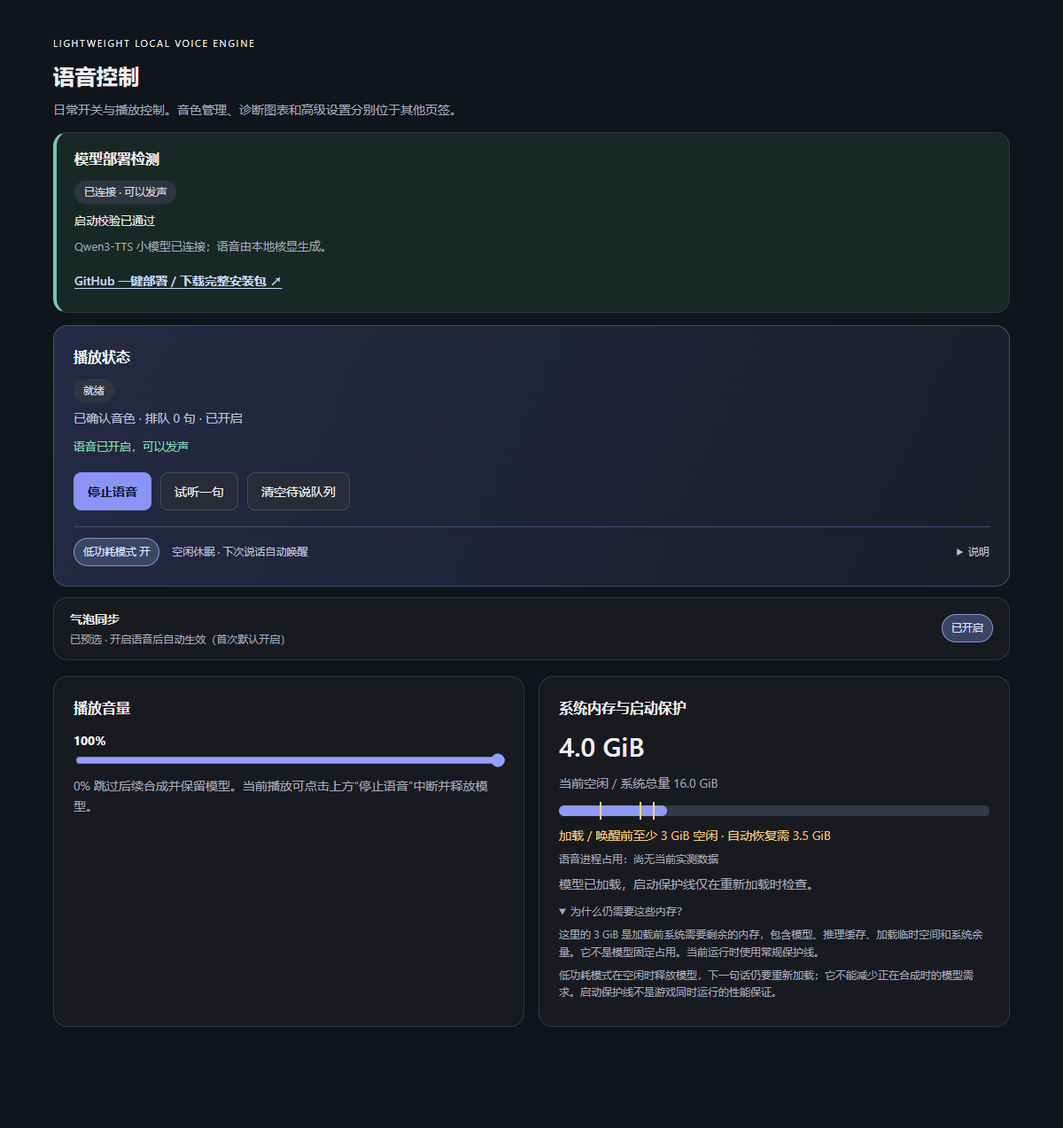
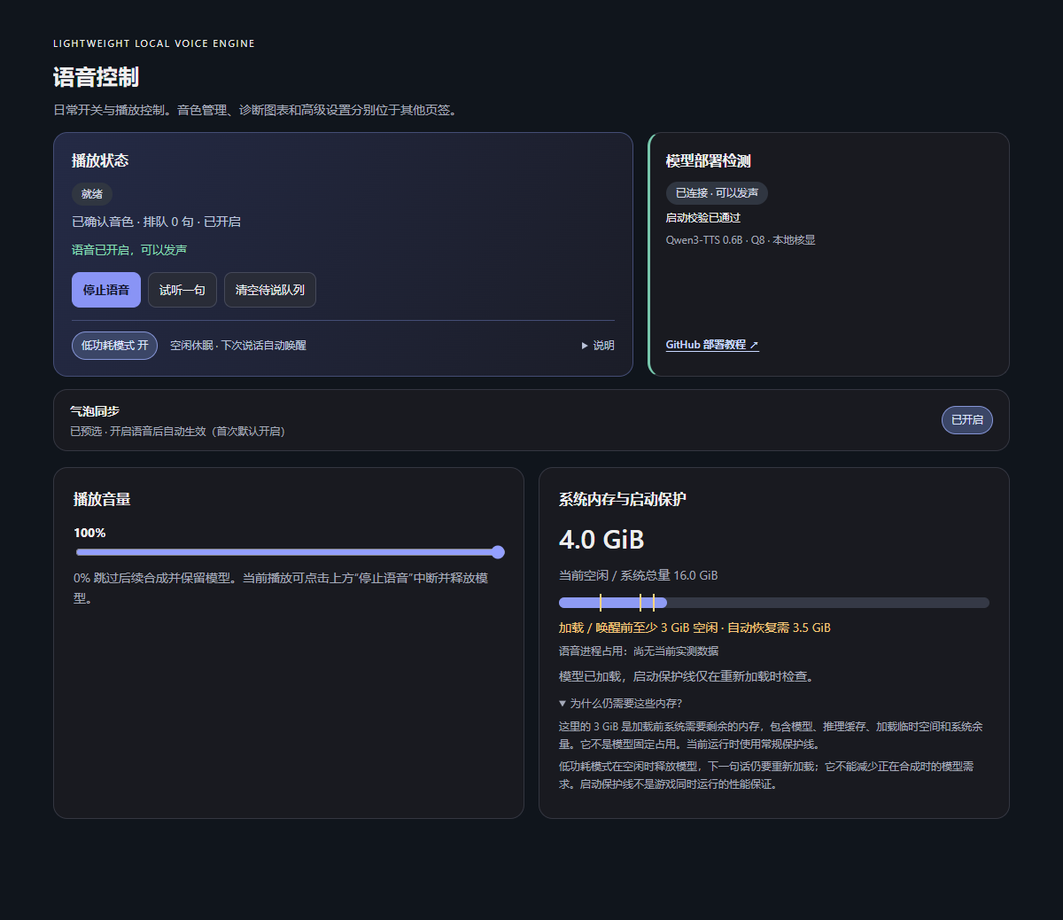
Place compact model deployment card beside playback controls

Changed region(s): [[0.0308, 0.0308, 0.925, 0.894], [0.8633, 0.4316, 0.9558, 0.4933], [0.8942, 0.5241, 0.9558, 0.5857]]

diff --git a/world/dist/console-0.3.11.js b/world/dist/console-0.3.11.js
@@ -1,0 +1,158 @@
+const names = {check_memory:'检查内存',validate_model:'正在校验',prepare_voice:'准备音色',prepare_audio:'启动播放器',check_environment:'检查环境',suspending:'正在休眠',sleeping:'低功耗休眠',ready:'就绪',load_model:'正在加载',synthesizing:'正在合成',playing:'正在播放',waiting_memory:'等待内存',disabled:'已关闭',stopped:'已停止',error:'异常',waiting_user:'待配置',idle:'未启动'};
+const node = (tag, text, cls) => { const e=document.createElement(tag); if(text!=null)e.textContent=text;if(cls)e.className=cls;return e; };
+const card = (title, cls='') => { const e=node('section',null,'card '+cls);if(title)e.append(node('h3',title));return e; };
+const fmt = n => Number.isFinite(n) ? Math.round(n).toLocaleString() : '—';
+const ms = n => `${fmt(n)} ms`;
+function shell(ctx,title,subtitle) {
+  const root=node('div',null,'lva');root.append(node('div','LIGHTWEIGHT LOCAL VOICE ENGINE','eyebrow'),node('h2',title),node('p',subtitle,'muted'));
+  const content=node('div'),notice=node('p',null,'notice');notice.setAttribute('role','status');root.append(content,notice);ctx.root.replaceChildren(root);
+  const state={busy:false};
+  async function act(method,args=[]) {
+    if(state.busy)return;state.busy=true;notice.textContent='正在处理…';
+    try {const result=await ctx.invoke(method,args);if(!ctx.signal.aborted)notice.textContent=['enable','recover'].includes(method)?'请求已接受，启动结果见播放状态。':'操作已完成';return result;}
+    catch(e){if(!ctx.signal.aborted)notice.textContent=e.message||String(e);throw e;}
+    finally{state.busy=false;}
+  }
+  function button(label,fn,cls='') {
+    const b=ctx.ui.button(label,{onClick:async()=>{if(state.busy)return;b.disabled=true;try{await fn();}catch{}finally{if(!ctx.signal.aborted && b.dataset.locked!=='true')b.disabled=false;}}});
+    b.classList.add(...cls.split(' ').filter(Boolean));return b;
+  }
+  function poll(render) {
+    let loading=false;
+    const refresh=async()=>{if(loading||ctx.signal.aborted)return;loading=true;try{const s=await ctx.invoke('state');if(!ctx.signal.aborted)render(s);}catch(e){if(!ctx.signal.aborted)notice.textContent='读取失败：'+e.message;}finally{loading=false;}};
+    void refresh();ctx.interval(refresh,1000);return refresh;
+  }
+  return {content,notice,state,act,button,poll};
+}
+function memory(s,c) {
+  const m=s.memory;
+  if(!c){
+    c=card('系统内存与启动保护');
+    const field=(tag,key,cls)=>{const e=node(tag,null,cls);e.dataset.memory=key;return e;};
+    c.append(field('div','free','stat'),field('p','total','muted'));
+    const track=node('div',null,'track');track.append(field('div','fill','fill'));
+    for(let i=0;i<3;i++)track.append(field('span','marker'+i,'marker'));c.append(track);
+    c.append(field('p','guard','warn'),field('p','measured','memory-measured'),field('p','verdict','muted'));
+    const why=node('details',null,'memory-help');why.append(node('summary','为什么仍需要这些内存？'),field('p','explain','muted'),field('p','peak','muted'),node('p','低功耗模式在空闲时释放模型，下一句话仍要重新加载；它不能减少正在合成时的模型需求。启动保护线不是游戏同时运行的性能保证。','muted'));c.append(why);
+  }
+  const field=key=>c.querySelector('[data-memory="'+key+'"]');
+  field('free').textContent=m.freeGiB.toFixed(1)+' GiB';field('total').textContent=`当前空闲 / 系统总量 ${m.totalGiB.toFixed(1)} GiB`;
+  field('fill').style.width=`${Math.min(100,m.freeGiB/m.totalGiB*100)}%`;
+  [m.minimumGiB,m.recoveryGiB,s.values.lowPowerMode&&s.values.lowMemoryMiB>0?s.values.lowMemoryMiB/1024:null].forEach((n,i)=>{const e=field('marker'+i);e.hidden=n==null;if(n!=null){e.style.left=n/m.totalGiB*100+'%';e.title=n+' GiB';}});
+  field('guard').textContent=`加载 / 唤醒前至少 ${m.minimumGiB} GiB 空闲 · 自动恢复需 ${m.recoveryGiB} GiB`;
+  const measured=s.workerPid?s.processMemory:null;
+  field('measured').textContent=measured?`语音进程专用 ${fmt(measured.privateMiB)} MiB · 驻留 ${fmt(measured.residentMiB)} MiB`:'语音进程占用：尚无当前实测数据';
+  field('verdict').textContent=s.workerPid&&s.accepting&&s.phase!=='sleeping'?'模型已加载，启动保护线仅在重新加载时检查。':m.freeGiB<m.minimumGiB?'可用内存不足，保留文字回复。':'达到启动保护线。';
+  field('explain').textContent=`这里的 ${m.minimumGiB} GiB 是加载前系统需要剩余的内存，包含模型、推理缓存、加载临时空间和系统余量。它不是模型固定占用。${m.layout==='text-rows'?'已启用文字词表按需加载，避免完整词表常驻核显。':m.layout==='compact'?'已识别固定音色精简模型，当前显示的是精简布局经实测校准后的加载保护线。':'当前运行时使用常规保护线。'}`;
+  field('peak').hidden=!measured;if(measured)field('peak').textContent=`本进程历史驻留峰值 ${fmt(measured.peakResidentMiB)} MiB。进程计数未单列核显共享内存，不能与系统空闲量直接相减。`;
+  return c;
+}
+function metric(title,value,hint){const c=card(title);c.append(node('div',value,'stat'),node('p',hint,'muted'));return c;}
+function chart(history) {
+  const c=card('最近 30 次语音 · 首次出声延迟');
+  if(!history.length){c.append(node('div','尚无数据。完成一次试听或聊天朗读后显示真实曲线。','empty'));return c;}
+  const ns='http://www.w3.org/2000/svg';const svg=document.createElementNS(ns,'svg');svg.setAttribute('viewBox','0 0 760 235');svg.setAttribute('role','img');svg.setAttribute('aria-label','首次音频设备回调及含排队延迟曲线，单位毫秒');
+  function item(tag,attrs,text){const e=document.createElementNS(ns,tag);for(const[k,v]of Object.entries(attrs))e.setAttribute(k,String(v));if(text)e.textContent=text;svg.append(e);return e;}
+  const max=Math.max(1000,...history.flatMap(x=>[x.firstDeviceCallbackMs||0,x.totalStartMs||0]))*1.15;
+  for(let i=0;i<4;i++){const y=15+i*60;item('line',{x1:55,y1:y,x2:742,y2:y,stroke:'var(--border)' });item('text',{x:2,y:y+5,fill:'var(--muted-foreground)' ,'font-size':12},String(Math.round(max*(1-i/3))));}
+  for(const [key,color] of [['firstDeviceCallbackMs','#9faeff'],['totalStartMs','#71d9b1']]){
+    const pts=history.map((h,i)=>[55+i*(687/Math.max(1,history.length-1)),195-Math.min(max,h[key]||0)/max*180]);
+    item('polyline',{points:pts.map(p=>p.join(',')).join(' '),fill:'none',stroke:color,'stroke-width':2.5});
+    pts.forEach(([x,y],i)=>{const p=item('circle',{cx:x,cy:y,r:3,fill:color});const t=document.createElementNS(ns,'title');t.textContent=`第 ${i+1} 次：${ms(history[i][key])}`;p.append(t);});
+  }
+  item('text',{x:55,y:224,fill:'var(--muted-foreground)' ,'font-size':12},'较早');item('text',{x:710,y:224,fill:'var(--muted-foreground)' ,'font-size':12},'最近');c.append(svg);
+  c.append(node('p','● 紫色：首次设备回调　● 绿色：含排队总延迟','legend'),node('p','毫秒，越低越快。计时从语音任务接收开始，不含聊天模型思考或系统扬声器的额外延迟；切换音色时清空旧曲线。','chart-caption'));return c;
+}
+const controls={mount(ctx){
+  const u=shell(ctx,'语音控制','日常开关与播放控制。音色管理、诊断图表和高级设置分别位于其他页签。');
+  const deploy=card('模型部署检测','deployment'),deployBadge=node('span','正在检测…','badge'),deployDetail=node('p'),deployHint=node('p','此功能需要安装 Qwen3-TTS 0.6B Base Q8 模型、音频解码模型及本地推理引擎才能发声。','muted'),deployLink=node('a','GitHub 一键部署 / 下载完整安装包 ↗','deploy-link');
+  deploy.setAttribute('role','status');deploy.setAttribute('aria-live','polite');deployLink.href='https://github.com/scarlet20252025-cloud/coopanion-soft-voice/releases/latest';deployLink.target='_blank';deployLink.rel='noopener noreferrer';deploy.append(deployBadge,deployDetail,deployHint,deployLink);
+  const hero=card('播放状态','hero'),state=node('span',null,'badge'),detail=node('p',null,'muted');hero.append(state,detail);
+  const feedback=node('div',null,'startup-feedback'),stageText=node('p'),progress=node('div',null,'startup-progress');feedback.setAttribute('role','status');feedback.setAttribute('aria-live','polite');progress.setAttribute('role','progressbar');progress.setAttribute('aria-label','语音启动进行中');feedback.hidden=true;feedback.append(stageText,progress);hero.append(feedback);
+  let pendingStartAt=0,requestedEnabled=null,stopPending=false,revision=0,latest=null,memoryCard=null;
+  const actionButtons={},actions=node('div',null,'actions');let refresh=()=>{};
+  const startButton=node('button','读取状态…','primary');startButton.type='button';startButton.disabled=true;
+  startButton.addEventListener('click',async()=>{
+    if(stopPending)return;
+    const want=!(requestedEnabled??latest?.speechEnabled??false),seq=++revision;requestedEnabled=want;
+    feedback.hidden=false;progress.hidden=false;feedback.classList.remove('bad','good');
+    if(want){pendingStartAt=Date.now();stageText.textContent='正在请求启动语音…';startButton.textContent='加载中 · 点击取消';}
+    else{stopPending=true;stageText.textContent='正在停止并释放语音模型…';startButton.textContent='正在停止…';startButton.disabled=true;}
+    try{await ctx.invoke(want?'enable':'disable');}
+    catch(e){stageText.textContent='操作失败：'+e.message;feedback.classList.add('bad');progress.hidden=true;u.notice.textContent=e.message;}
+    finally{if(seq===revision){requestedEnabled=null;pendingStartAt=0;stopPending=false;}await refresh();}
+    },{signal:ctx.signal});actions.append(startButton);
+  for(const [label,method]of [['试听一句','test'],['重试恢复','recover'],['清空待说队列','clearQueue']]){
+    const b=u.button(label,async()=>{await u.act(method);await refresh();});actionButtons[method]=b;if(method==="recover")b.hidden=true;if(method==="test")b.disabled=true;actions.append(b);
+  }hero.append(actions);
+  const volume=card('播放音量'),range=node('input'),output=node('strong');range.type='range';range.min=0;range.max=100;range.step=1;range.setAttribute('aria-label','播放音量');range.addEventListener('input',()=>output.textContent=range.value+'%',{signal:ctx.signal});range.addEventListener('change',()=>{void u.act('save',[{volume:Number(range.value)}]).catch(()=>{});},{signal:ctx.signal});
+  volume.append(output,range,node('p','0% 跳过后续合成并保留模型。当前播放可点击上方“停止语音”中断并释放模型。','muted'));
+  let lowPower=false;
+  const power=node('div',null,'power-inline'),powerHint=node('span',null,'muted');
+  const powerButton=u.button('低功耗模式',async()=>{await u.act('save',[{lowPowerMode:!lowPower}]);await refresh();},'power-switch');powerButton.setAttribute('role','switch');powerButton.setAttribute('aria-checked','false');powerButton.setAttribute('aria-label','低功耗模式');
+  const powerHelp=node('details',null,'power-help');powerHelp.append(node('summary','说明'),node('p','开启后按配置的空闲时间或内存阈值释放模型，不打断播放；下一句话自动唤醒，首句多一段加载等待。关闭后保持常驻。休眠时间、阈值和是否保留进程在“配置”页调整。','muted'));
+  power.append(powerButton,powerHint,powerHelp);hero.append(power);
+  let syncBubbles=true;
+  const syncOption=card(null,'feature-option'),syncCopy=node('div',null,'feature-copy'),syncHint=node('p',null,'muted');
+  syncOption.setAttribute('aria-label','独立功能：气泡同步');syncHint.id='lva-bubble-sync-hint';syncHint.setAttribute('role','status');
+  syncCopy.append(node('strong','气泡同步'),syncHint);
+  const syncButton=u.button('读取状态…',async()=>{await u.act('save',[{syncBubbles:!syncBubbles}]);await refresh();},'power-switch');syncButton.setAttribute('role','switch');syncButton.setAttribute('aria-label','气泡同步');syncButton.setAttribute('aria-describedby',syncHint.id);syncButton.disabled=true;
+  syncButton.title='首次默认开启，语音就绪后生效。记住你的选择；关闭此功能不会停止语音。';
+  syncOption.append(syncCopy,syncButton);
+  const grid=node('div',null,'grid'),mem=node('div');grid.append(volume,mem);const top=node('div',null,'control-top-grid');top.append(hero,deploy);u.content.append(top,syncOption,grid);
+  refresh=u.poll(s=>{
+    const d=s.deployment||{state:'unknown',detail:'尚未取得模型部署状态'};
+    const labels={missing:'未部署 · 无法使用语音',error:'模型连接失败',waiting_memory:'已部署 · 等待内存',connected:'已连接 · 可以发声',loading:'已部署 · 正在连接',sleeping:'已部署 · 低功耗休眠',installed:'已部署 · 尚未连接',unknown:'正在检测模型'};
+    deploy.dataset.state=d.state;deployBadge.textContent=labels[d.state]||labels.unknown;deployDetail.textContent=d.detail||'';deploy.classList.toggle('attention',['missing','error','unknown'].includes(d.state));deployLink.classList.toggle('highlight',['missing','error','installed'].includes(d.state));deployLink.textContent=['missing','error'].includes(d.state)?'安装模型 / 部署教程 ↗':'GitHub 部署教程 ↗';deployHint.textContent=d.installed?'Qwen3-TTS 0.6B · Q8 · 本地核显':'需要安装 Qwen3-TTS 0.6B Q8 及本地引擎才能发声。';
+    latest=s;const enabled=requestedEnabled??s.speechEnabled;
+    syncBubbles=!!s.values.syncBubbles;syncButton.textContent=syncBubbles?'已开启':'已关闭';syncButton.setAttribute('aria-checked',String(syncBubbles));syncButton.disabled=false;
+    syncHint.textContent={disabled:'按原版文字计时切换，语音照常播放',voice_off:'已预选 · 开启语音后自动生效（首次默认开启）',muted:'已预选 · 当前静音，气泡按文字计时切换',unavailable:'缺少显示适配桥，请按安装教程接入后重启桌宠',waiting_voice:'已预选 · 等待语音准备完成后自动生效',active:'正在生效 · 等本段语音读完，再切换下一气泡'}[s.bubbleSync?.phase]||'正在读取同步状态';
+    const starting=!!(pendingStartAt||enabled&&(s.initializing||s.toggling)),stopping=!!(stopPending||s.toggling&&!s.speechEnabled),ready=s.speechEnabled&&s.accepting&&!['waiting_memory','error','waiting_user','disabled'].includes(s.phase);
+    startButton.disabled=stopping;startButton.textContent=stopping?'正在停止…':starting?'加载中 · 点击取消':enabled?'停止语音':'开启语音';startButton.title=starting?'点击取消加载并释放模型':enabled?'停止播放并释放语音模型':'开启本地语音';hero.setAttribute('aria-busy',String(starting||stopping));
+    for(const [key,disabled] of [['test',!ready||starting||stopping||s.speaking||s.queueLength>0||s.values.volume===0],['recover',starting||stopping]]){actionButtons[key].disabled=!!disabled;actionButtons[key].dataset.locked=String(!!disabled);}
+    actionButtons.recover.hidden=stopping||!['error','waiting_memory','waiting_user'].includes(s.phase);
+    feedback.classList.toggle('bad',!stopping&&['error','waiting_memory','waiting_user'].includes(s.phase));feedback.classList.toggle('good',s.phase==='ready'&&ready);feedback.hidden=!starting&&!stopping&&!ready&&!['error','waiting_memory','waiting_user'].includes(s.phase);progress.hidden=!starting&&!stopping;progress.setAttribute('aria-label',stopping?'语音正在停止':'语音启动进行中');
+    if(starting){const elapsed=Math.max(0,Math.floor((Date.now()-(s.loadingSince||pendingStartAt||Date.now()))/1000));stageText.textContent=`${s.detail||'正在启动语音'} · 已等待 ${elapsed} 秒`;progress.setAttribute('aria-valuetext',stageText.textContent);}
+    else stageText.textContent=stopping?'正在停止并释放语音模型…':s.phase==='ready'&&ready?`语音已开启，可以发声${s.loadMs!=null?' · 最近加载 '+(s.loadMs/1000).toFixed(1)+' 秒':''}`:s.phase==='sleeping'?'已开启，正在低功耗休眠；下一句话自动唤醒。':s.detail||'已关闭';
+    lowPower=!!s.values.lowPowerMode;powerButton.setAttribute('aria-checked',String(lowPower));powerButton.textContent=`低功耗模式 ${lowPower?'开':'关'}`;powerHint.textContent=lowPower?'空闲休眠 · 下次说话自动唤醒':'模型保持常驻';state.textContent=stopping?'正在停止':starting?'正在开启':names[s.phase]||s.phase;detail.textContent=`${s.voices.find(v=>v.key===s.selectedVoice)?.name||s.selectedVoice} · 排队 ${s.queueLength} 句 · ${s.speechEnabled?'已开启':'已关闭'}`;if(document.activeElement!==range){range.value=s.values.volume;output.textContent=s.values.volume+'%';}memoryCard=memory(s,memoryCard);if(!mem.firstChild)mem.append(memoryCard);
+  });
+}};
+const status={mount(ctx){
+  let memoryCard=null;
+  const u=shell(ctx,'运行状态','真实语音指标与内存门槛。没有样本时不估算性能，不填充演示数据。');
+  u.poll(s=>{
+    const h=s.history||[],last=h.at(-1),grid=node('div',null,'grid');
+    const ratios=h.filter(x=>x.seconds>0&&Number.isFinite(x.totalSynthesisMs)).map(x=>x.totalSynthesisMs/(x.seconds*1000));
+    grid.append(metric('首次出声',last?ms(last.firstDeviceCallbackMs):'—','最近一条：音频设备首次回调'),metric('平均合成耗时 / 音频时长',ratios.length?(ratios.reduce((a,b)=>a+b,0)/ratios.length).toFixed(2)+'×':'—','低于 1× 表示平均生成快于音频时长'),metric('断流 / 设备欠载',last?`${fmt(last.underrunMs)} ms / ${fmt(last.deviceUnderflows)} 次`:'—','最近一条：连续播放监测'));
+    const info=card('引擎与诊断'),err=node('p',s.workerError||s.detail||'无异常',s.workerError?'error':'muted');
+    info.append(node('p',s.engine),node('p',`24 kHz 单声道 · 最近加载 / 唤醒 ${ms(s.loadMs)} · 丢弃旧句 ${s.dropped}`,'muted'),err);
+    const lower=node('div',null,'grid');memoryCard=memory(s,memoryCard);lower.append(memoryCard,info);u.content.replaceChildren(grid,chart(h),lower);
+  });
+}};
+const config={mount(ctx){
+  const u=shell(ctx,'配置','管理排队与资源恢复策略。保存后生效；不会改变参考音色或采样参数。');
+  const form=card('消息与资源策略'),inputs={};
+  for(const[key,title,desc,min,max]of [['lowPowerMode','低功耗模式','开启后按下方条件自动休眠，下一句话自动唤醒；关闭后模型常驻。加载内存保护始终有效。'],['keepWorker','休眠时保留工作进程','保留进程和播放器，释放模型；关闭则深度休眠并完全退出进程。低占用模式仍占数百 MiB，不保证唤醒更快。'],['lowMemoryMiB','内存保护阈值（MiB）','0 关闭。空闲内存低于此值且没有播放/排队时提前休眠；建议 1536。加载要求以“内存与启动要求”卡片为准。',0,4096],['idleUnloadSec','自动休眠（秒）','0 关闭空闲计时；建议 300。空闲到时休眠，不打断播放，下一句话自动唤醒。',0,3600],['maxQueue','队列容量','达到上限时丢弃最旧的待说句，保留最近内容。',1,12],['maxAgeSec','待说有效期（秒）','开始合成前检查；超过时限不再补读。',5,180],['pollMs','消息检查间隔（毫秒）','默认 180。调低只影响取消息速度，不能加快模型计算。',80,2000],['autoRecover','内存恢复后自动重试','只在内存不足导致的加载失败后生效；达到自动恢复门槛后，每分钟最多一次。']]){
+    const row=node('label',null,'row'),text=node('span',title),input=node('input');text.append(node('small',desc));input.type=min==null?'checkbox':'number';if(min!=null){input.min=min;input.max=max;input.step=1;}input.setAttribute('aria-label',title);row.append(text,input);form.append(row);inputs[key]=input;
+  }
+  function powerFields(){for(const k of ['keepWorker','lowMemoryMiB','idleUnloadSec']) inputs[k].disabled=!inputs.lowPowerMode.checked;}
+  inputs.lowPowerMode.addEventListener('change',powerFields,{signal:ctx.signal});
+  const a=node('div',null,'actions');a.append(u.button('保存配置',async()=>{const values=Object.fromEntries(Object.entries(inputs).map(([k,i])=>[k,i.type==='checkbox'?i.checked:Number(i.value)]));await u.act('save',[values]);},'primary'));form.append(a);
+  const fixed=card('音色稳定性');fixed.append(node('p','原速 1.0 · 种子 44 · 固定参考音色特征'),node('p','这些参数不作为普通设置开放，避免出现保存无效、意外变声或不完整输出。音色切换请到“音色库”。','muted'));
+  u.content.append(form,fixed);void ctx.invoke('state').then(s=>{if(ctx.signal.aborted)return;for(const[k,i]of Object.entries(inputs)){if(i.type==='checkbox')i.checked=s.values[k];else i.value=s.values[k];}powerFields();}).catch(e=>u.notice.textContent=e.message);
+}};
+const voices={mount(ctx){
+  const u=shell(ctx,'音色库','音色作为独立 ZIP 数据包导入。导入不会自动替换当前声音，选择后重新加载生效。');
+  const catalog=node('div',null,'grid'),upload=card('导入音色包'),file=node('input');file.type='file';file.accept='.zip,application/zip';file.setAttribute('aria-label','选择 ZIP 音色包');
+  upload.append(node('p','ZIP 根目录：voice.json + reference.wav。最多 2 MiB；参考音频为 3–15 秒、24 kHz、单声道 PCM16。','muted'),file);
+  let refresh=()=>{};
+  upload.append(u.button('校验并导入 ZIP',async()=>{
+    const f=file.files?.[0];if(!f){u.notice.textContent='请先选择 ZIP 文件';return;}if(f.size>2*1024*1024){u.notice.textContent='文件超过 2 MiB';return;}
+    const base64=await new Promise((resolve,reject)=>{const r=new FileReader();r.onload=()=>resolve(String(r.result).split(',')[1]);r.onerror=()=>reject(new Error('文件读取失败'));r.readAsDataURL(f);});
+    const result=await u.act('import',[base64]);if(result)u.notice.textContent=`已导入“${result.name}”。选择该音色后才会生效。`;file.value='';await refresh();
+  },'primary'));
+  const help=card('制作与分享'),link=node('a','音色制作教程 ↗');link.href='https://github.com/scarlet20252025-cloud/coopanion-soft-voice/blob/main/docs/VOICE_PACKS.md';link.target='_blank';link.rel='noopener noreferrer';help.append(link,node('p','教程包含音频准备、转写、打包命令、试听检查与常见错误。ZIP 只包含音频和说明，不包含模型或可执行脚本。','muted'));
+  u.content.append(catalog,upload,help);
+  refresh=u.poll(s=>{catalog.replaceChildren(...s.voices.map(v=>{const c=card(v.name,'voice '+(v.key===s.selectedVoice?'selected':!v.available?'pending':''));c.append(node('span',v.key===s.selectedVoice?'使用中':v.available?'可用':'待更新','badge'),node('p',v.description,'muted'));if(v.available&&v.key!==s.selectedVoice)c.append(u.button('使用此音色',async()=>{await u.act('select',[v.key]);await refresh();}));if(!v.available)c.append(node('p','后续更新将提供更多默认音色。','muted'));return c;}));});
+}};
+export default {panels:{controls,status,config,voices}};

diff --git a/world/dist/console-0.3.11.css b/world/dist/console-0.3.11.css
@@ -1,0 +1,28 @@
+.lva { --lv-card:var(--surface,#191a20);--lv-border:var(--border,#343641);--lv-accent:#929cff;--lv-muted:var(--muted-foreground,#a4a9b8); color:var(--foreground,#eee); max-width:1100px;min-width:0;width:100%; padding:12px 0 36px; font-size:14px; line-height:1.65 }
+.lva * { box-sizing:border-box }
+.lva h2 { font-size:24px;margin:0 0 6px;letter-spacing:.02em }.lva h3 { font-size:16px;margin:0 0 12px }
+.lva p { margin:6px 0 }.lva .muted { color:var(--lv-muted) }.lva .eyebrow {font-size:11px;letter-spacing:.15em;color:var(--muted-foreground);margin-bottom:8px}
+.lva .grid {display:grid;grid-template-columns:repeat(auto-fit,minmax(230px,1fr));gap:16px;margin:18px 0}.lva .card {background:var(--lv-card);border:1px solid var(--lv-border);border-radius:16px;padding:22px;min-width:0}
+.lva .hero {color:#eee;--lv-muted:#bbc3d9;background:linear-gradient(115deg,#242a45,#1b1d28);border-color:#444d75}.lva .badge {display:inline-block;border-radius:20px;padding:3px 11px;font-size:12px;background:#303641;color:#d8dce9}.lva .good {color:#88dfb5}.lva .warn {color:var(--warn,#f5c77a)}.lva .bad {color:#ff9e9e}
+.lva .actions {display:flex;flex-wrap:wrap;gap:10px;margin:18px 0}.lva button {border:1px solid #45495a;border-radius:9px;background:#292c37;color:#eee;padding:9px 15px;cursor:pointer;min-height:40px;font:inherit}.lva button.primary {background:#8994f5;color:#10152e;border-color:#8994f5;font-weight:600}.lva button.danger {border-color:#97565e;color:#ffb6ba}.lva button:disabled {opacity:.4;cursor:not-allowed}.lva button:hover:not(:disabled){filter:brightness(1.14)}
+.lva a {color:var(--accent,#adb5ff);text-decoration:underline;text-underline-offset:3px}.lva input,.lva select {background:var(--surface-hover,#14161d);color:var(--foreground,#eee);border:1px solid #4d5265;border-radius:8px;padding:9px;max-width:100%;font:inherit}.lva input[type=range] {width:100%;padding:0;accent-color:#939fff}.lva input[type=checkbox] {width:18px;height:18px;accent-color:#939fff}.lva input[type=number] {width:120px}
+.lva .row {display:flex;justify-content:space-between;align-items:center;gap:20px;padding:16px 0;border-top:1px solid var(--lv-border)}.lva .row small {display:block;color:var(--lv-muted);max-width:550px}.lva .stat {font-size:30px;font-weight:600;line-height:1.2;margin:12px 0}.lva .unit {font-size:13px;color:var(--lv-muted);font-weight:400}.lva .track {height:12px;border-radius:8px;background:#353946;position:relative;margin:14px 0 10px;overflow:visible}.lva .fill {height:100%;border-radius:8px;background:#8e9bf4}.lva .marker {position:absolute;top:-4px;height:20px;border-left:2px solid #ffd280}.lva .legend {display:flex;gap:16px;flex-wrap:wrap;color:var(--lv-muted);font-size:12px}.lva .legend b {color:#a4b2ff}.lva svg {width:100%;height:auto;display:block}.lva .empty {padding:40px 14px;text-align:center;color:var(--lv-muted);border:1px dashed #42475a;border-radius:10px}
+.lva .notice {min-height:26px;white-space:pre-wrap;overflow-wrap:anywhere}.lva .voice {display:flex;flex-direction:column;gap:10px}.lva .voice.selected {border-color:#929cff;box-shadow:inset 0 0 0 1px #929cff}.lva .voice.pending {border-style:dashed;opacity:.72}.lva .voice button {align-self:flex-start;margin-top:auto}.lva .error {white-space:pre-wrap;overflow-wrap:anywhere;color:#ffb4b4;max-height:240px;overflow:auto}.lva .chart-caption {font-size:12px;color:var(--lv-muted);margin-top:8px}.lva .upload {padding:20px;border:1px dashed #65729b;border-radius:12px;background:#202536}.lva .upload input{width:100%;margin:12px 0}
+@media(max-width:640px){.lva .card{padding:16px}.lva .row{align-items:flex-start;flex-wrap:wrap}.lva h2{font-size:21px}.lva .grid{grid-template-columns:1fr}}
+.lva .power-inline {display:flex;align-items:center;flex-wrap:wrap;gap:10px 14px;border-top:1px solid #444d75;padding-top:12px;font-size:12px}
+.lva button.power-switch {min-height:32px;padding:5px 10px;font-size:12px;border-radius:20px}
+.lva button.power-switch[aria-checked=true] {background:#3b4667;border-color:#8594d5;color:#dce4ff}
+.lva .feature-option {display:flex;align-items:center;justify-content:space-between;gap:12px 18px;padding:12px 18px;margin:12px 0}
+.lva .feature-copy {min-width:0}.lva .feature-copy p {font-size:12px;margin:2px 0 0}.lva .feature-option button {flex-shrink:0}
+.lva .power-help {position:relative;margin-left:auto}.lva summary {cursor:pointer;color:var(--lv-muted)}
+.lva .power-help p {position:absolute;right:0;top:24px;width:min(350px,75vw);z-index:2;padding:14px;border:1px solid #515b7c;border-radius:10px;background:#202537;box-shadow:0 6px 20px #0005}
+.lva .memory-help {margin-top:10px;font-size:12px}.lva .memory-measured {font-size:12px;color:var(--lv-muted)}
+.lva .startup-feedback {font-size:13px;margin-top:10px}.lva .startup-feedback[hidden],.lva .startup-progress[hidden]{display:none}
+.lva .startup-progress {height:4px;overflow:hidden;border-radius:4px;background:#39415e;margin-top:8px}
+.lva .startup-progress:after {content:'';display:block;width:35%;height:100%;background:#a6b8ff;animation:voice-start 1.5s ease-in-out infinite}
+@keyframes voice-start {from{transform:translateX(-100%)}to{transform:translateX(390%)}}
+@media(prefers-reduced-motion:reduce){.lva .startup-progress:after{animation:none;width:100%}}
+.lva .deployment {border-left:4px solid #77c8ad;background:#182925;margin:14px 0;padding:16px 20px}.lva .deployment.attention {border:1px solid #eab16e;border-left:4px solid #eab16e;background:#332719}.lva .deployment[data-state=loading]{border-left-color:#a6b8ff}.lva .deployment p {margin:8px 0;font-size:13px;overflow-wrap:anywhere}.lva .deploy-link {display:inline-block;font-weight:600;color:#c8d7ff;padding:8px 0}.lva .deploy-link.highlight {padding:10px 16px;border-radius:8px;background:#ffd08e;color:#28201a;text-decoration:none}.lva .deploy-link:focus-visible{outline:3px solid #a6b8ff;outline-offset:3px}
+
+.lva .control-top-grid {display:grid;grid-template-columns:minmax(0,1.6fr) minmax(250px,1fr);gap:16px;margin:14px 0}.lva .control-top-grid>.card {margin:0}.lva .control-top-grid .deployment {padding:18px;border-left-width:3px;display:flex;flex-direction:column;align-items:flex-start;gap:5px;background:var(--lv-card)}.lva .control-top-grid .deployment.attention {background:#30261b}.lva .control-top-grid .deployment h3 {margin:0 0 6px}.lva .control-top-grid .deployment p {margin:0;font-size:12px}.lva .control-top-grid .deploy-link {font-size:12px;padding:7px 0;margin-top:auto}.lva .control-top-grid .deploy-link.highlight {padding:8px 12px}.lva .control-top-grid .hero {padding:18px 20px}.lva .control-top-grid .actions {gap:8px;margin:14px 0}.lva .control-top-grid .actions button {font-size:13px;padding:8px 12px}
+@media(max-width:720px){.lva .control-top-grid{grid-template-columns:1fr}.lva .control-top-grid .deployment{padding:14px 16px}.lva .control-top-grid .deploy-link{margin-top:4px}}

diff --git a/tests/test_world_install.py b/tests/test_world_install.py
@@ -27,7 +27,7 @@ class WorldInstallTests(unittest.TestCase):
             (bot/'config.json').write_text(json.dumps({'personal':'keep','worlds':{}}))
             with patch.object(installer.subprocess,'run'):installer.install(ext,bot,runtime,True)
             meta=json.loads((ext/'node_modules'/installer.NAME/'package.json').read_text(encoding='utf-8'))
-            self.assertEqual(meta['version'],'0.3.10')
+            self.assertEqual(meta['version'],'0.3.11')
             self.assertTrue((ext/'node_modules'/installer.NAME/meta['cortico']['consoleClient']).is_file())
             cfg=json.loads((bot/'config.json').read_text(encoding='utf-8'));self.assertEqual(cfg['personal'],'keep')
             self.assertEqual(json.loads((ext/'package.json').read_text(encoding='utf-8'))['dependencies']['other-world'],'1.0')

diff --git a/scripts/check_distribution.py b/scripts/check_distribution.py
@@ -12,7 +12,7 @@ required = {
     'scripts/prepare_speech_profile.py', 'scripts/verify_deployment.py',
     'portable-release.json', 'docs/PORTABLE_INSTALL.md', 'scripts/deploy-source.ps1',
     'scripts/install-portable.ps1', 'scripts/activate_portable.py', 'scripts/build_portable.py',
-    'world/dist/console-0.3.10.js', 'world/dist/console-0.3.10.css', 'world/src/install_bubble_bridge.py',
+    'world/dist/console-0.3.11.js', 'world/dist/console-0.3.11.css', 'world/src/install_bubble_bridge.py',
     'evidence/2026-10-14-text-rows/qwentts-text-rows.patch',
     'src/coopanion_soft_voice/native_capabilities.py',
     'scripts/setup-native.ps1', 'scripts/setup_native.py', 'scripts/build_native_windows.ps1',

diff --git a/README.md b/README.md
@@ -1,6 +1,6 @@
 # 轻量化本地语音引擎 · Coopanion
 
-作者：**Asryto** · Python **0.4.11** / World **0.3.10**
+作者：**Asryto** · Python **0.4.11** / World **0.3.11**
 
 Windows Coopanion 的独立核显语音扩展。保留已确认的 `soft-child-design-2`，支持流式播放、独立气泡同步开关、低功耗休眠、延迟图表、模型部署检测和 ZIP 音色库。主页明确区分未部署、加载、已连接、休眠和内存不足，并提供 GitHub 安装入口。
 
